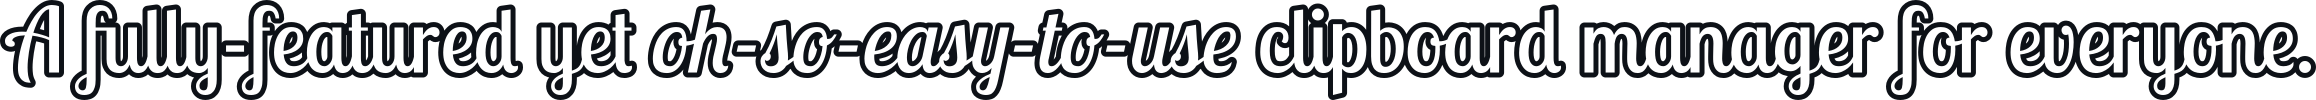
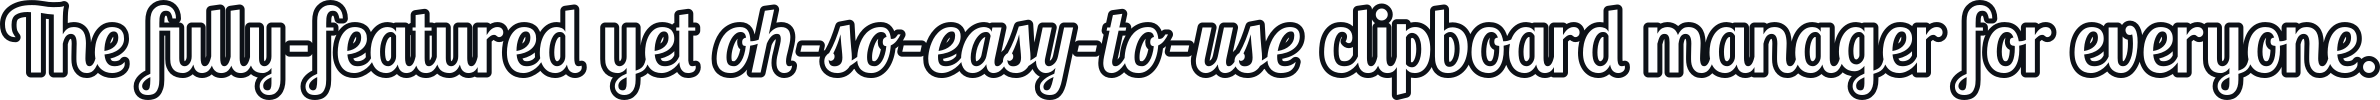
Reword [skip ci]

diff --git a/README.md b/README.md
@@ -4,11 +4,11 @@
 
 <br>
 
+<img src="documentation/readme-assets/ProductivityTools.png" alt="The fully-featured yet oh-so-easy-to-use clipboard manager for everyone." />
+
 <br>
 
-<img src="documentation/readme-assets/ProductivityTools.png" alt="The Clipboard Project (CB for short) is the fully-featured yet oh-so-easy-to-use clipboard manager for everyone." />
-
-The Clipboard Project (CB for short) is a super fast and featherlight, feature packed, and user friendly power tool that saves you time and effort in style. You'll be able to remember anything, anytime, anywhere at the literal press of a button, like having a second brain.
+The Clipboard Project <sup>(CB for short)</sup> is a fast and featherlight, feature packed, and user friendly power tool that saves you tons of time and effort in style. You'll be able to remember anything, anytime, anywhere at the literal press of a button, like having a second brain.
 
 I originally made the Clipboard Project to address some severe deficiencies in other similar tools. But now, it's the world's first (and currently only) complete, honest-to-goodness clipboard manager for the terminal.
 
